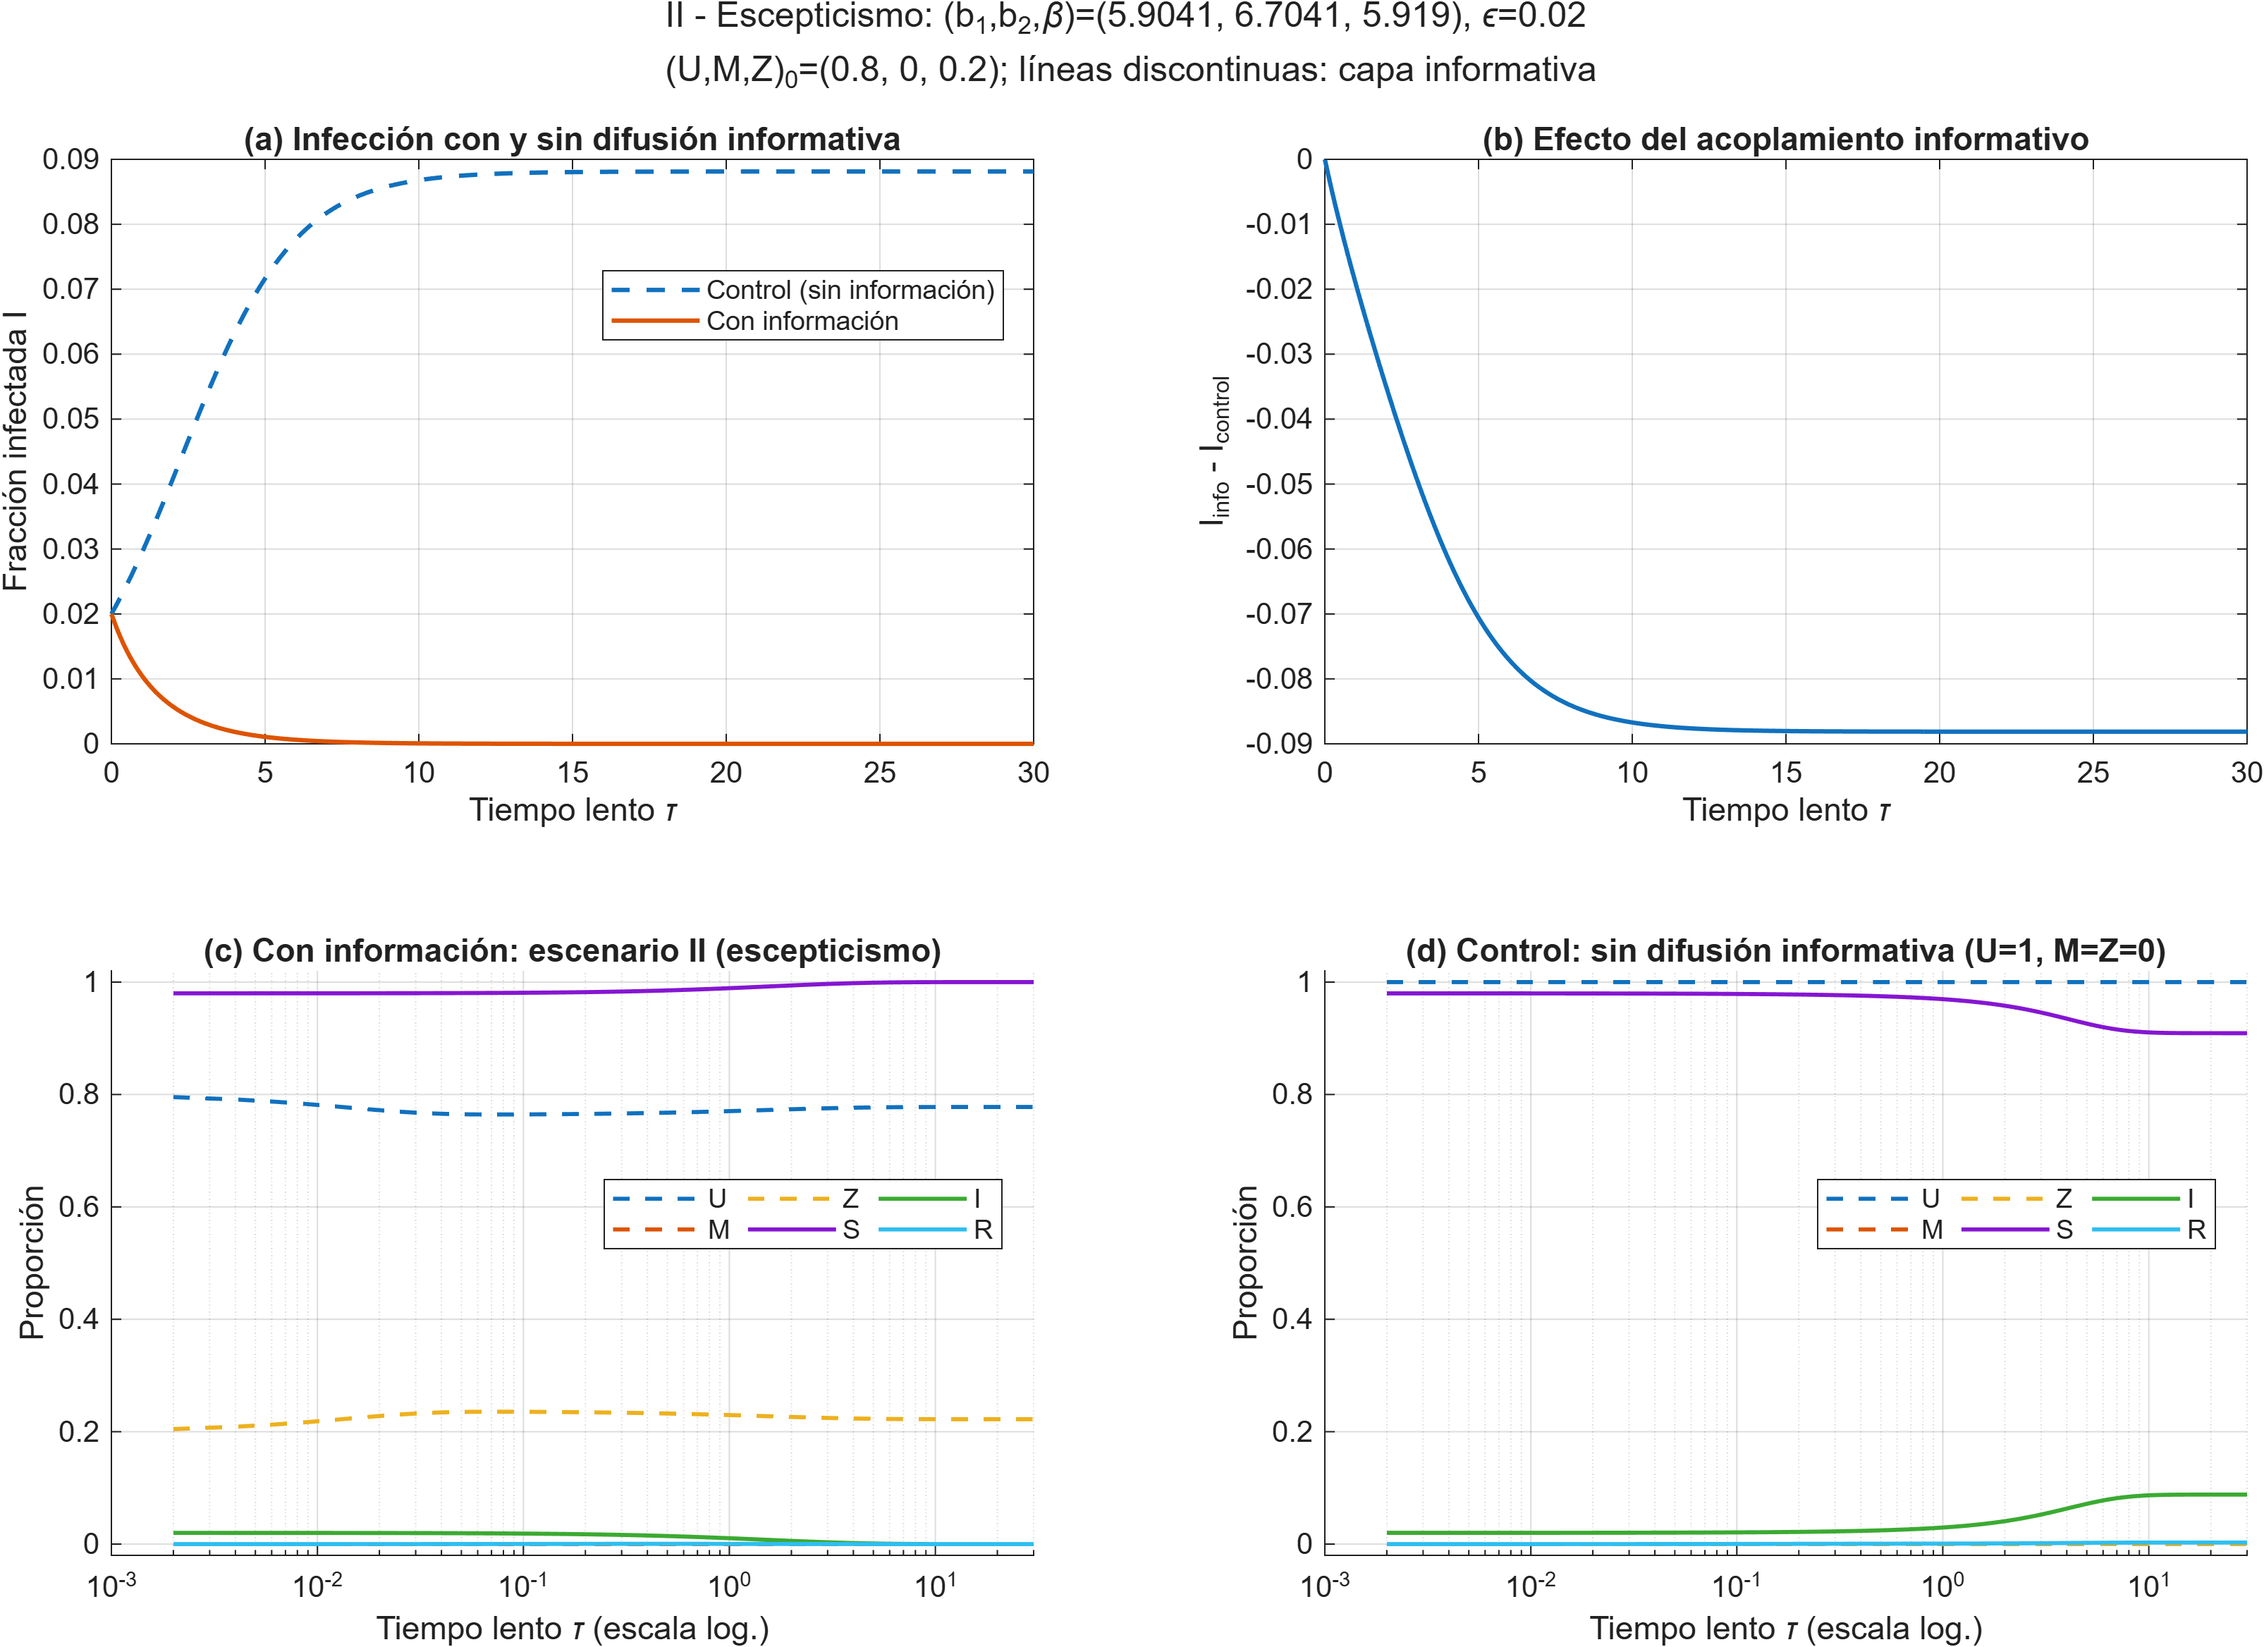
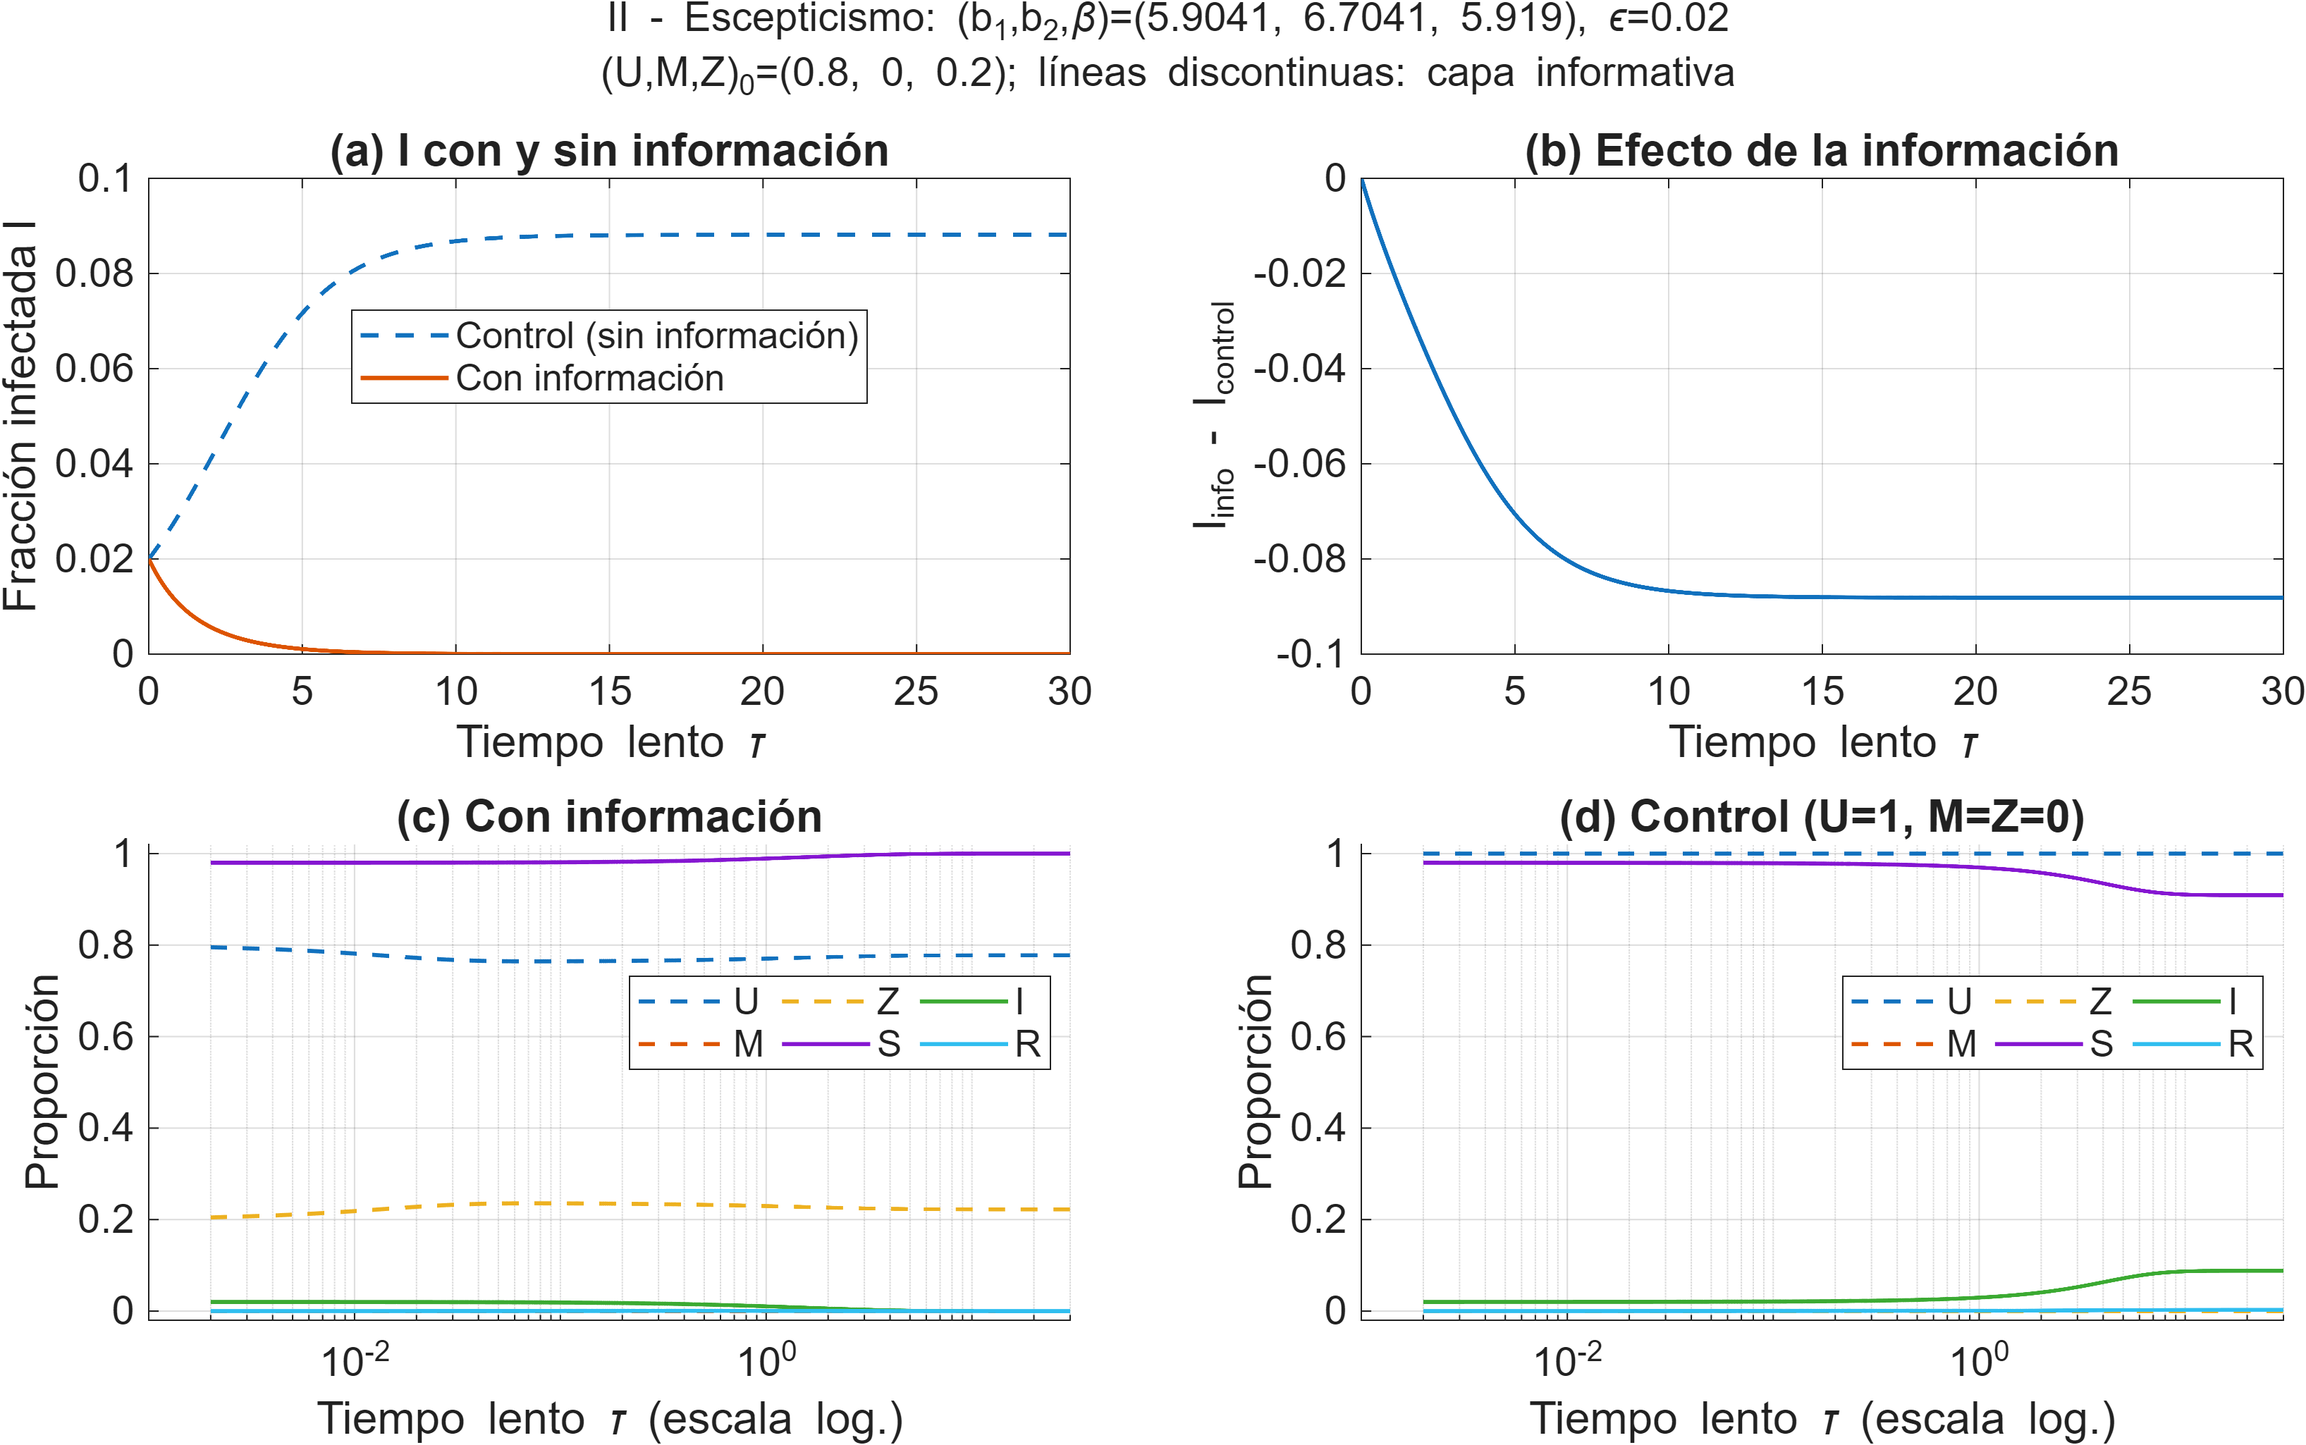
fig: figuras legibles y sin nombres de software
- Letra mas grande en las figuras 2, 5 y 8 del paper (scripts 05, 06 y 07)
- Etiquetas DP45/NDF en lugar de ode45/ode15s (scripts 06 y 11)
- Figura de escenarios con titulos cortos para que no se superpongan
- .mlx regenerados desde los .m; frase de la Fig. 6 acortada para no pasar de 10 paginas

diff --git a/matlab/MN_Grupo8_07_Escenarios_Epidemiologicos.m b/matlab/MN_Grupo8_07_Escenarios_Epidemiologicos.m
@@ -11,6 +11,11 @@
 clear; clc; close all; format long g
 
 carpetaFiguras='../figuras'; carpetaRes='../resultados';
+
+% LETRA LEGIBLE AL ANCHO DE COLUMNA DEL PAPER
+
+set(groot,'defaultAxesFontSize',14,'defaultLegendFontSize',12,'defaultTextFontSize',14);
+
 if ~exist(carpetaFiguras,'dir'), mkdir(carpetaFiguras); end
 if ~exist(carpetaRes,'dir'), mkdir(carpetaRes); end
 
@@ -86,18 +91,18 @@ for c=1:numel(casos)
     %% Figura 2x2: (a) I con/sin informacion, (b) diferencia, (c) 6 variables con
     % informacion, (d) 6 variables del control. Paneles (c) y (d) en tau logaritmico
     % para que la capa rapida (tau pequeno) y la lenta se vean a la vez.
-    fig=figure('Color','w','Name',casos(c).nombre,'Position',[40 40 1250 800]);
+    fig=figure('Color','w','Name',casos(c).nombre,'Position',[40 40 1250 680]);
     nom={'U','M','Z','S','I','R'}; col=lines(6);
     subplot(2,2,1)
     plot(q.eps*tC,XC(5,:),'--','LineWidth',1.5); hold on
     plot(q.eps*tA,XA(5,:),'LineWidth',1.5); grid on
     xlabel('Tiempo lento \tau'); ylabel('Fracción infectada I')
-    title('(a) Infección con y sin difusión informativa')
+    title('(a) I con y sin información')
     legend('Control (sin información)','Con información','Location','best')
     subplot(2,2,2)
     plot(q.eps*tA,XA(5,:)-XC(5,:),'LineWidth',1.5); yline(0,'--'); grid on
     xlabel('Tiempo lento \tau'); ylabel('I_{info} - I_{control}')
-    title('(b) Efecto del acoplamiento informativo')
+    title('(b) Efecto de la información')
     subplot(2,2,3); hold on
     for k=1:6
         if k<=3, est='--'; else, est='-'; end
@@ -105,7 +110,7 @@ for c=1:numel(casos)
     end
     set(gca,'XScale','log'); grid on; xlim([1e-3 tauFinal]); ylim([-0.02 1.02]);
     xlabel('Tiempo lento \tau (escala log.)'); ylabel('Proporción')
-    title(['(c) Con información: ' casos(c).tag])
+    title('(c) Con información')
     legend(nom,'NumColumns',3,'Location','best')
     subplot(2,2,4); hold on
     for k=1:6
@@ -114,12 +119,12 @@ for c=1:numel(casos)
     end
     set(gca,'XScale','log'); grid on; xlim([1e-3 tauFinal]); ylim([-0.02 1.02]);
     xlabel('Tiempo lento \tau (escala log.)'); ylabel('Proporción')
-    title('(d) Control: sin difusión informativa (U=1, M=Z=0)')
+    title('(d) Control (U=1, M=Z=0)')
     legend(nom,'NumColumns',3,'Location','best')
     sgtitle({sprintf('%s: (b_1,b_2,\\beta)=(%g, %g, %g), \\epsilon=%g', ...
         casos(c).nombre,q.b1,q.b2,q.beta,q.eps), ...
         sprintf('(U,M,Z)_0=(%g, %g, %g); líneas discontinuas: capa informativa', ...
-        casos(c).informacion(1),casos(c).informacion(2),casos(c).informacion(3))},'FontSize',12);
+        casos(c).informacion(1),casos(c).informacion(2),casos(c).informacion(3))},'FontSize',14);
     if c==1, archivoFigura='fig03_escenario_desinformacion.png';
     else, archivoFigura='fig04_escenario_escepticismo.png'; end
     exportgraphics(fig,fullfile(carpetaFiguras,archivoFigura),'Resolution',300);

diff --git a/paper/03_resultados.tex b/paper/03_resultados.tex
@@ -108,7 +108,7 @@ Con reducción de paso y $h=4$, todos los métodos terminaron (Tabla~\ref{tab:re
 \label{fig:costo}
 \end{figure*}
 
-El costo para alcanzar un error $\le10^{-3}$ (Figura~\ref{fig:costo}) creció casi proporcionalmente a $1/\varepsilon$ en RK4 (de 20 a $2\cdot10^6$ evaluaciones en el conjunto base) y en DP45 (de 73 a $1.9\cdot10^6$), y se mantuvo casi plano en NDF (de 44 a 227 en el conjunto base y de 53 a 79 en el de Bulai). En el conjunto de Bulai, DP45 requirió $5.0\cdot10^{7}$ evaluaciones con $\varepsilon=10^{-6}$ frente a 79 de NDF, y Euler hacia atrás con solución directa requirió $3.0\cdot10^{5}$, también proporcional a $1/\varepsilon$ para $\varepsilon\le10^{-3}$; su mínimo en $\varepsilon=10^{-3}$ se debió a que con $h=50$ el error fue $2.9\cdot10^{-4}$, mientras que en $\varepsilon=10^{-2}$ fue $1.02\cdot10^{-3}$ y solo cumplió $h=0.1$. En el conjunto base, Euler hacia atrás no alcanzó el error objetivo con los pasos ensayados, y RK4 no se evaluó con $\varepsilon\le10^{-5}$ en el de Bulai por exceder el límite de pasos.
+El costo para alcanzar un error $\le10^{-3}$ (Figura~\ref{fig:costo}) creció casi proporcionalmente a $1/\varepsilon$ en RK4 (de 20 a $2\cdot10^6$ evaluaciones en el conjunto base) y en DP45 (de 73 a $1.9\cdot10^6$), y se mantuvo casi plano en NDF (de 44 a 227 en el conjunto base y de 53 a 79 en el de Bulai). En el conjunto de Bulai, DP45 requirió $5.0\cdot10^{7}$ evaluaciones con $\varepsilon=10^{-6}$ frente a 79 de NDF, y Euler hacia atrás con solución directa requirió $3.0\cdot10^{5}$, también proporcional a $1/\varepsilon$ para $\varepsilon\le10^{-3}$; su mínimo en $\varepsilon=10^{-3}$ reflejó la malla de pasos (con $h=50$ cumplió allí, pero no en $10^{-2}$). En el conjunto base, Euler hacia atrás no alcanzó el error objetivo con los pasos ensayados, y RK4 no se evaluó con $\varepsilon\le10^{-5}$ en el de Bulai por exceder el límite de pasos.
 
 
 \subsection{Objetivo 3: variación de parámetros}

diff --git a/matlab/MN_Grupo8_06_Rigidez_Estabilidad.m b/matlab/MN_Grupo8_06_Rigidez_Estabilidad.m
@@ -16,6 +16,11 @@
 clear; clc; close all; format short g
 
 carpetaFiguras='../figuras'; carpetaRes='../resultados';
+
+% LETRA LEGIBLE AL ANCHO DE COLUMNA DEL PAPER
+
+set(groot,'defaultAxesFontSize',13,'defaultLegendFontSize',11,'defaultTextFontSize',13);
+
 if ~exist(carpetaFiguras,'dir'), mkdir(carpetaFiguras); end
 if ~exist(carpetaRes,'dir'), mkdir(carpetaRes); end
 
@@ -150,11 +155,11 @@ for ie=1:numel(epsilons)
         xlim([0.4 5]);
         xticks(pasos); xticklabels(string(pasos)); set(ax,'XMinorTick','off');
         xlabel('Paso nominal h');
-        if ie==1, ylabel('Error máximo frente a ode15s'); end
+        if ie==1, ylabel('Error frente a la referencia (NDF)'); end
         title(sprintf('\\epsilon=%g, %s',epsilons(ie),tit));
         if ie==3
-            if fila==1, legend([hl hx],[et {'inadmisible / fallo'}],'Location','southeast','FontSize',7);
-            else, legend([hl hx],[et {'inadmisible / fallo'}],'Location','north','NumColumns',3,'FontSize',7); end
+            if fila==1, legend([hl hx],[et {'inadmisible / fallo'}],'Location','southeast','FontSize',9);
+            else, legend([hl hx],[et {'inadmisible / fallo'}],'Location','north','NumColumns',3,'FontSize',9); end
         end
     end
 end
@@ -179,7 +184,7 @@ legend([hl9 hn],[et9 {'h nominal = 4'}],'Location','best','FontSize',8);
 % exportgraphics(fig9,fullfile(carpetaFiguras,'fig09_paso_efectivo.png'),'Resolution',300);
 
 % Figura 08: radio espectral de Gauss-Seidel frente a h
-fig8=figure('Color','w','Name','rho GS vs h');
+fig8=figure('Color','w','Name','rho GS vs h','Position',[60 60 960 510]);
 semilogx(tablaR.h,tablaR.Rho_x0,'-o','LineWidth',1.4); hold on;
 semilogx(tablaR.h,tablaR.Rho_x50,'-s','LineWidth',1.4);
 yline(1,'--k','\rho=1'); grid on;

diff --git a/matlab/MN_Grupo8_11_Costo_vs_Epsilon.m b/matlab/MN_Grupo8_11_Costo_vs_Epsilon.m
@@ -13,6 +13,11 @@
 clear; clc; close all; format short g
 
 carpetaFiguras='../figuras'; carpetaRes='../resultados';
+
+% LETRA LEGIBLE AL ANCHO DE COLUMNA DEL PAPER
+
+set(groot,'defaultAxesFontSize',13,'defaultLegendFontSize',11,'defaultTextFontSize',13);
+
 if ~exist(carpetaFiguras,'dir'), mkdir(carpetaFiguras); end
 if ~exist(carpetaRes,'dir'), mkdir(carpetaRes); end
 
@@ -88,7 +93,7 @@ fprintf('\nGuardado: MN_Grupo8_resultados_costo_epsilon.csv\n');
 
 %% 3. Figura: costo minimo (evaluaciones de f) que alcanza el error objetivo
 metodos={'RK4','Euler atras','ode45','ode15s'};
-etiq={'RK4','Euler atrás (directo)','ode45','ode15s'};
+etiq={'RK4','Euler atrás (directo)','DP45','NDF'};
 col=lines(4); mk={'o-','s-','^-','d-'};
 fig=figure('Color','w','Name','Costo vs epsilon','Position',[50 50 1200 480]);
 for ic=1:2

diff --git a/matlab/MN_Grupo8_05_Comparacion_Metodos.m b/matlab/MN_Grupo8_05_Comparacion_Metodos.m
@@ -10,6 +10,11 @@
 clear; clc; close all; format long g
 
 carpetaFiguras='../figuras'; carpetaRes='../resultados';
+
+% LETRA LEGIBLE AL ANCHO DE COLUMNA DEL PAPER
+
+set(groot,'defaultAxesFontSize',14,'defaultLegendFontSize',12,'defaultTextFontSize',14);
+
 if ~exist(carpetaFiguras,'dir'), mkdir(carpetaFiguras); end
 if ~exist(carpetaRes,'dir'), mkdir(carpetaRes); end
 
@@ -92,7 +97,7 @@ for caso=1:2
 
     if caso==2
         %% Figura 01: convergencia (paso fijo) con pendientes de referencia
-        fig1=figure('Color','w','Name','Figura 01 - Convergencia');
+        fig1=figure('Color','w','Name','Figura 01 - Convergencia','Position',[60 60 960 510]);
         hold on;
         estilos={'o-','s--','^-.'}; colores=lines(3); hl=gobjects(1,3);
         for im=1:3
